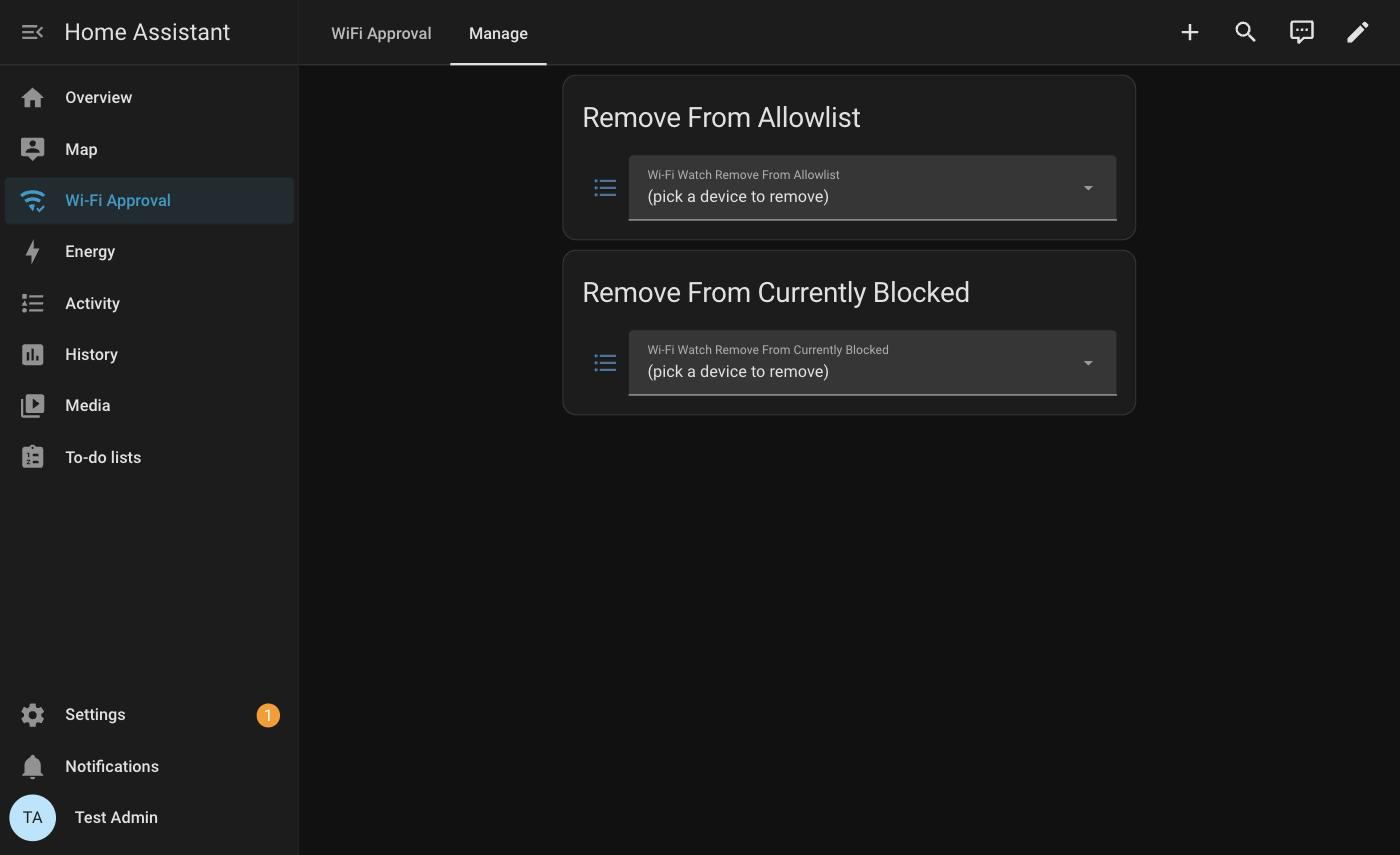
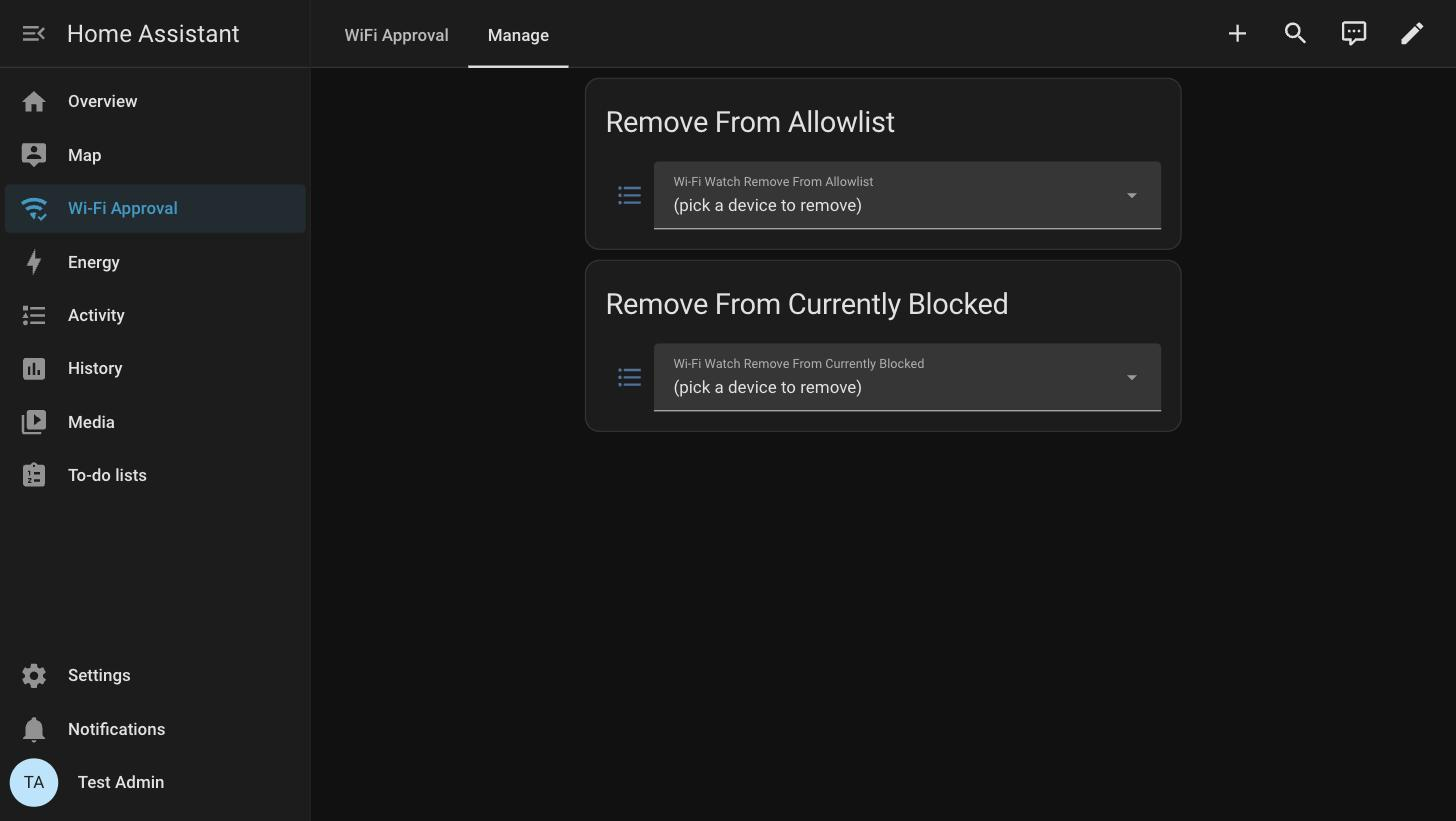
Polish README wording, fix history time formatting, redo screenshots
- Reworded the Entities intro to describe current behavior in plain
  terms instead of "no dashboard required" framing that only makes
  sense with the project's history in mind.
- Dropped the "(Sample data above...)" captions - unnecessary noise.
- Fixed the dashboard's "Recent approval history" time-ago template:
  it only had s/m/h tiers, so anything over ~41 days showed as
  "4800h 4m 52s ago" instead of days. Added a days tier.
- Redid all screenshots: the throwaway HA instance had leftover
  onboarding/notification badges in earlier shots; this pass clears
  them properly (finished the "integration" onboarding step, set
  country/location, dismissed a self-inflicted failed-login
  notification from a stale token). Device page is now one single
  screenshot (temporary page zoom instead of a scrolled second shot)
  instead of two that visually ran into each other.

diff --git a/README.md b/README.md
@@ -118,14 +118,11 @@ without removing and re-adding the integration:
 
 ## Entities
 
-One device ("Wi-Fi Watch") with everything needed to act on it, no
-dashboard required — Home Assistant's own auto-generated device page is a
-working control surface on its own:
+Everything lives on one device page ("Wi-Fi Watch") — buttons to act on a
+device, dropdowns to remove one, and sensors showing what's currently
+allowed, blocked, or waiting:
 
-<img src="docs/screenshots/device-page-controls.jpg" width="600" alt="Wi-Fi Watch device page showing the four decide buttons and the Pending Device/Remove selectors">
-<img src="docs/screenshots/device-page-diagnostic.jpg" width="600" alt="Wi-Fi Watch device page showing the four diagnostic sensors">
-
-*(Sample data above — not a real network.)*
+<img src="docs/screenshots/device-page.jpg" width="700" alt="Wi-Fi Watch device page showing its controls and sensors">
 
 - **Pending Approvals**, **Allowlist**, **Denied**, **Recent Activity** —
   diagnostic sensors, each a count with an attribute listing the actual
@@ -272,7 +269,8 @@ views:
       {% for h in state_attr(''sensor.wi_fi_watch_recent_activity'', ''history'') or [] %}- **{{ h.name
       }}** ({{ h.mac }}) - {{ h.action }} - {% set diff = ((as_timestamp(now()) - h.time) | round(0) |
       int) %}{% if diff < 60 %}{{ diff }}s{% elif diff < 3600 %}{{ (diff // 60) }}m {{ (diff % 60) }}s{%
-      else %}{{ (diff // 3600) }}h {{ ((diff % 3600) // 60) }}m {{ (diff % 60) }}s{% endif %} ago
+      elif diff < 86400 %}{{ (diff // 3600) }}h {{ ((diff % 3600) // 60) }}m {{ (diff % 60) }}s{% else
+      %}{{ (diff // 86400) }}d {{ ((diff % 86400) // 3600) }}h {{ ((diff % 3600) // 60) }}m{% endif %} ago
 
       {% else %}*Nothing yet.*
 
@@ -294,8 +292,6 @@ views:
 
 <img src="docs/screenshots/dashboard-main.jpg" width="600" alt="Wi-Fi Watch dashboard showing a pending client and the four decide buttons">
 <img src="docs/screenshots/dashboard-manage.jpg" width="600" alt="Wi-Fi Watch dashboard's Manage tab showing the two removal dropdowns">
-
-*(Sample data above — not a real network.)*
 
 ## Diagnostics
 
